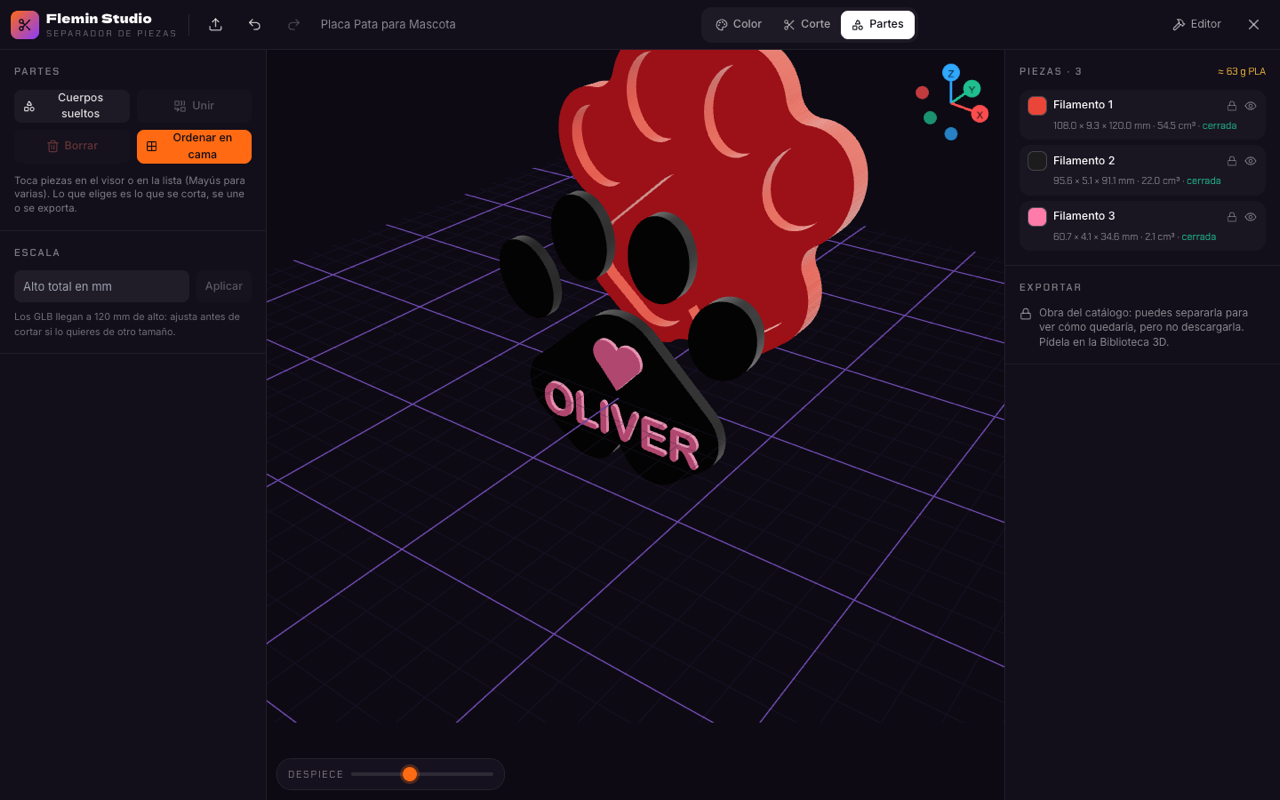
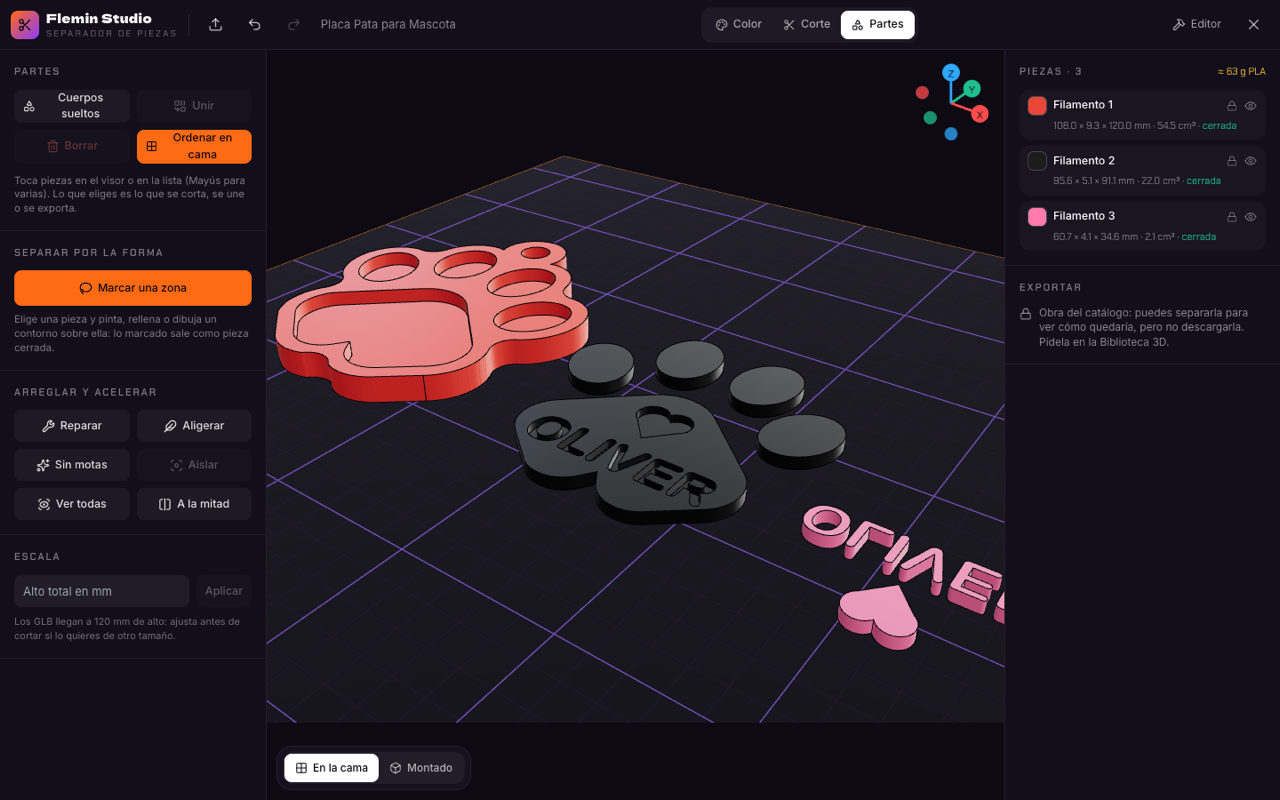
Publicar web desde f866643

diff --git a/README.md b/README.md
@@ -54,27 +54,27 @@ Ojos, logos y detalles como **placas de la profundidad que elijas** metidas en e
 <td valign="top">
 
 ### ✂ Cortes con conectores
-Planos en cualquier ángulo con **espigas** redondas, cuadradas o triangulares, o **clavijas sueltas**, con la holgura de tu impresora. Se colocan solas en el punto más firme del corte.
+El **plano sigue a tu mouse** sobre el modelo y un clic lo fija, o toma la orientación de la cara que tocas. **Espigas** redondas, cuadradas o triangulares, o **clavijas sueltas**, con la holgura de tu impresora, colocadas solas en el punto más firme del corte.
 
 </td>
 <td valign="top">
 
-### ✏ Corte con boceto
-Dibuja un contorno sobre la vista y lo de dentro sale aparte, atravesando el modelo.
+### ✏ Separa la forma que quieras
+**Marca una zona** pasando el mouse con el pincel, con un relleno que se detiene en las aristas, o con un **contorno pegado a la superficie**: clics alrededor y la línea sigue la malla. Lo marcado sale como pieza cerrada. También hay corte con boceto sobre la vista.
 
 </td>
 </tr>
 <tr>
 <td valign="top">
 
-### 📐 Para tu cama
-¿No cabe en tu **Creality K2 Plus** o **SPARKX i7**? Lo divide solo. Y reparte todas las piezas **centradas y apoyadas por su mejor cara**.
+### 📐 Ordenadas en tu cama
+Al separar, las piezas se **acomodan solas sobre la cama** de tu **Creality K2 Plus** o **SPARKX i7**: apoyadas por su mejor cara, en filas y centradas. Un clic las muestra montadas. ¿No cabe? Lo divide solo.
 
 </td>
 <td valign="top">
 
 ### 🛠 Repara lo que otros entregan roto
-Mallas abiertas de Meshy o escaneos, agujeros y aristas compartidas por más de dos caras: se cierran antes de cortar. Las piezas salen sólidas.
+Mallas abiertas de Meshy o escaneos, agujeros y aristas rotas: se cierran antes de cortar. Botones de un clic para **reparar, aligerar mallas pesadas, borrar motas y aislar piezas**, y un control de calidad que comprueba que las piezas suman el volumen exacto del original.
 
 </td>
 </tr>
@@ -84,7 +84,7 @@ Mallas abiertas de Meshy o escaneos, agujeros y aristas compartidas por más de 
 
 <div align="center">
 
-**Separado por colores, automático**
+**Separado por colores y ordenado en la cama, automático**
 
 <img src="promo/separador.png" alt="El Separador con una placa multicolor separada en tres piezas cerradas" width="100%"/>
 
@@ -117,7 +117,8 @@ Mallas abiertas de Meshy o escaneos, agujeros y aristas compartidas por más de 
 
 - **Manifold** (el núcleo CSG de Blender y OpenSCAD) compilado a WebAssembly, en un worker: la interfaz nunca se congela.
 - Geometría robusta: barridos direccionales por parches para incrustar, isolíneas suavizadas para las fronteras, membranas de superficie mínima para tapar cortes curvos.
-- 56 pruebas automáticas con Manifold real y archivos 3MF multicolor reales.
+- Contorno sobre la superficie con caminos geodésicos (Dijkstra sobre la malla) y control de conservación de volumen en cada separación.
+- 60 pruebas automáticas con Manifold real y archivos 3MF multicolor reales.
 
 ---
 
